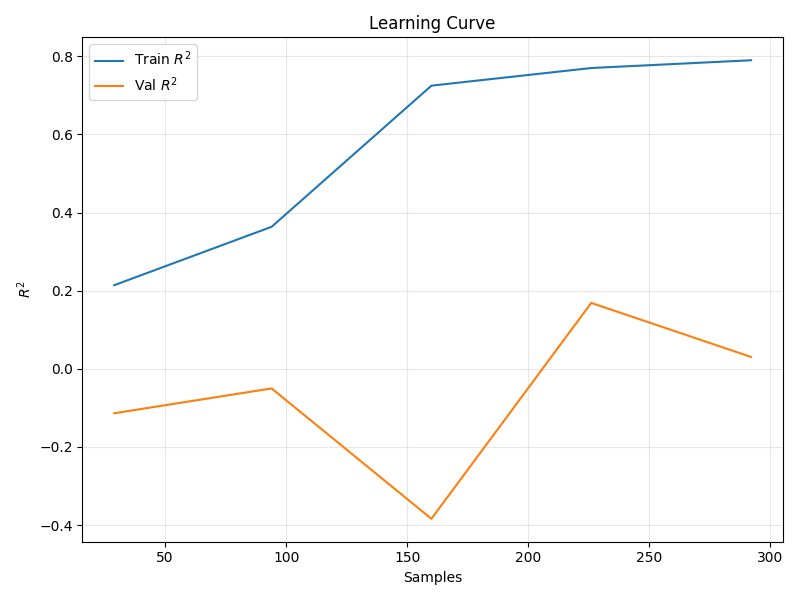
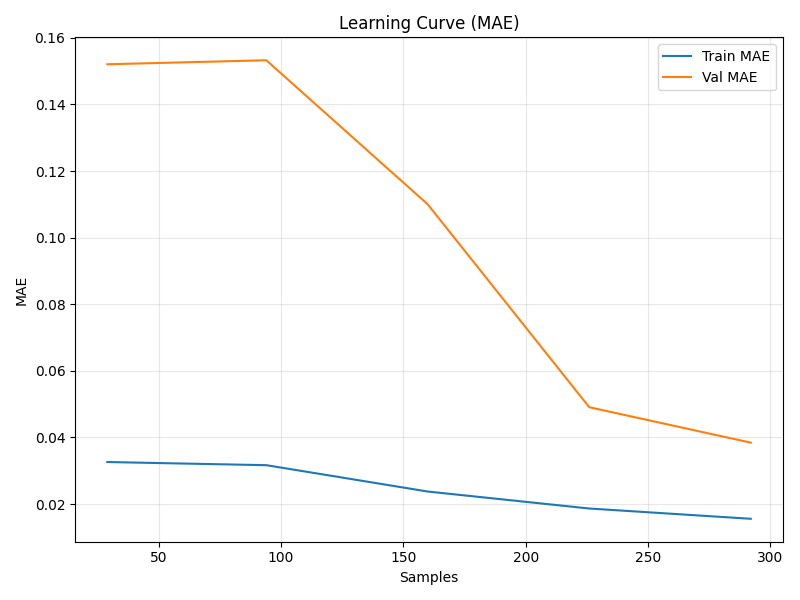
Updated plots and minor UX changes

diff --git a/src/app/controllers/line_edit_collector_controller.py b/src/app/controllers/line_edit_collector_controller.py
@@ -203,7 +203,7 @@ class LineEditCollectorController(object):
             return required_values + optional_values
 
         except ValueError:
-            QMessageBox.information(
+            QMessageBox.warning(
                 self._window,
                 "Invalid value",
                 "All values must be positive decimal values.\nUse a dot for decimals instead of a comma.\nMake sure you did not enter any letters or negative numbers.",

diff --git a/src/app/controllers/agent_pipeline_controller.py b/src/app/controllers/agent_pipeline_controller.py
@@ -70,7 +70,7 @@ class AgentPipelineController(object):
             QLineEdit, "partialSubdivisionLineEdit"
         )
         if partial_subdivision_line_edit:
-            partial_subdivision_line_edit.setText(str(partial_subdivision))
+            partial_subdivision_line_edit.setText(str(round(partial_subdivision, 3)))
 
         # Load the Results Widget.
         loader = QUiLoader()

diff --git a/src/models/random_forest_baseline.py b/src/models/random_forest_baseline.py
@@ -532,4 +532,4 @@ if __name__ == "__main__":
     )
     random_forest_model.train()
     random_forest_model.evaluate(print_results=True, save_best_model=True)
-    random_forest_model.plot_all(save=False)
+    random_forest_model.plot_all(save=True)
